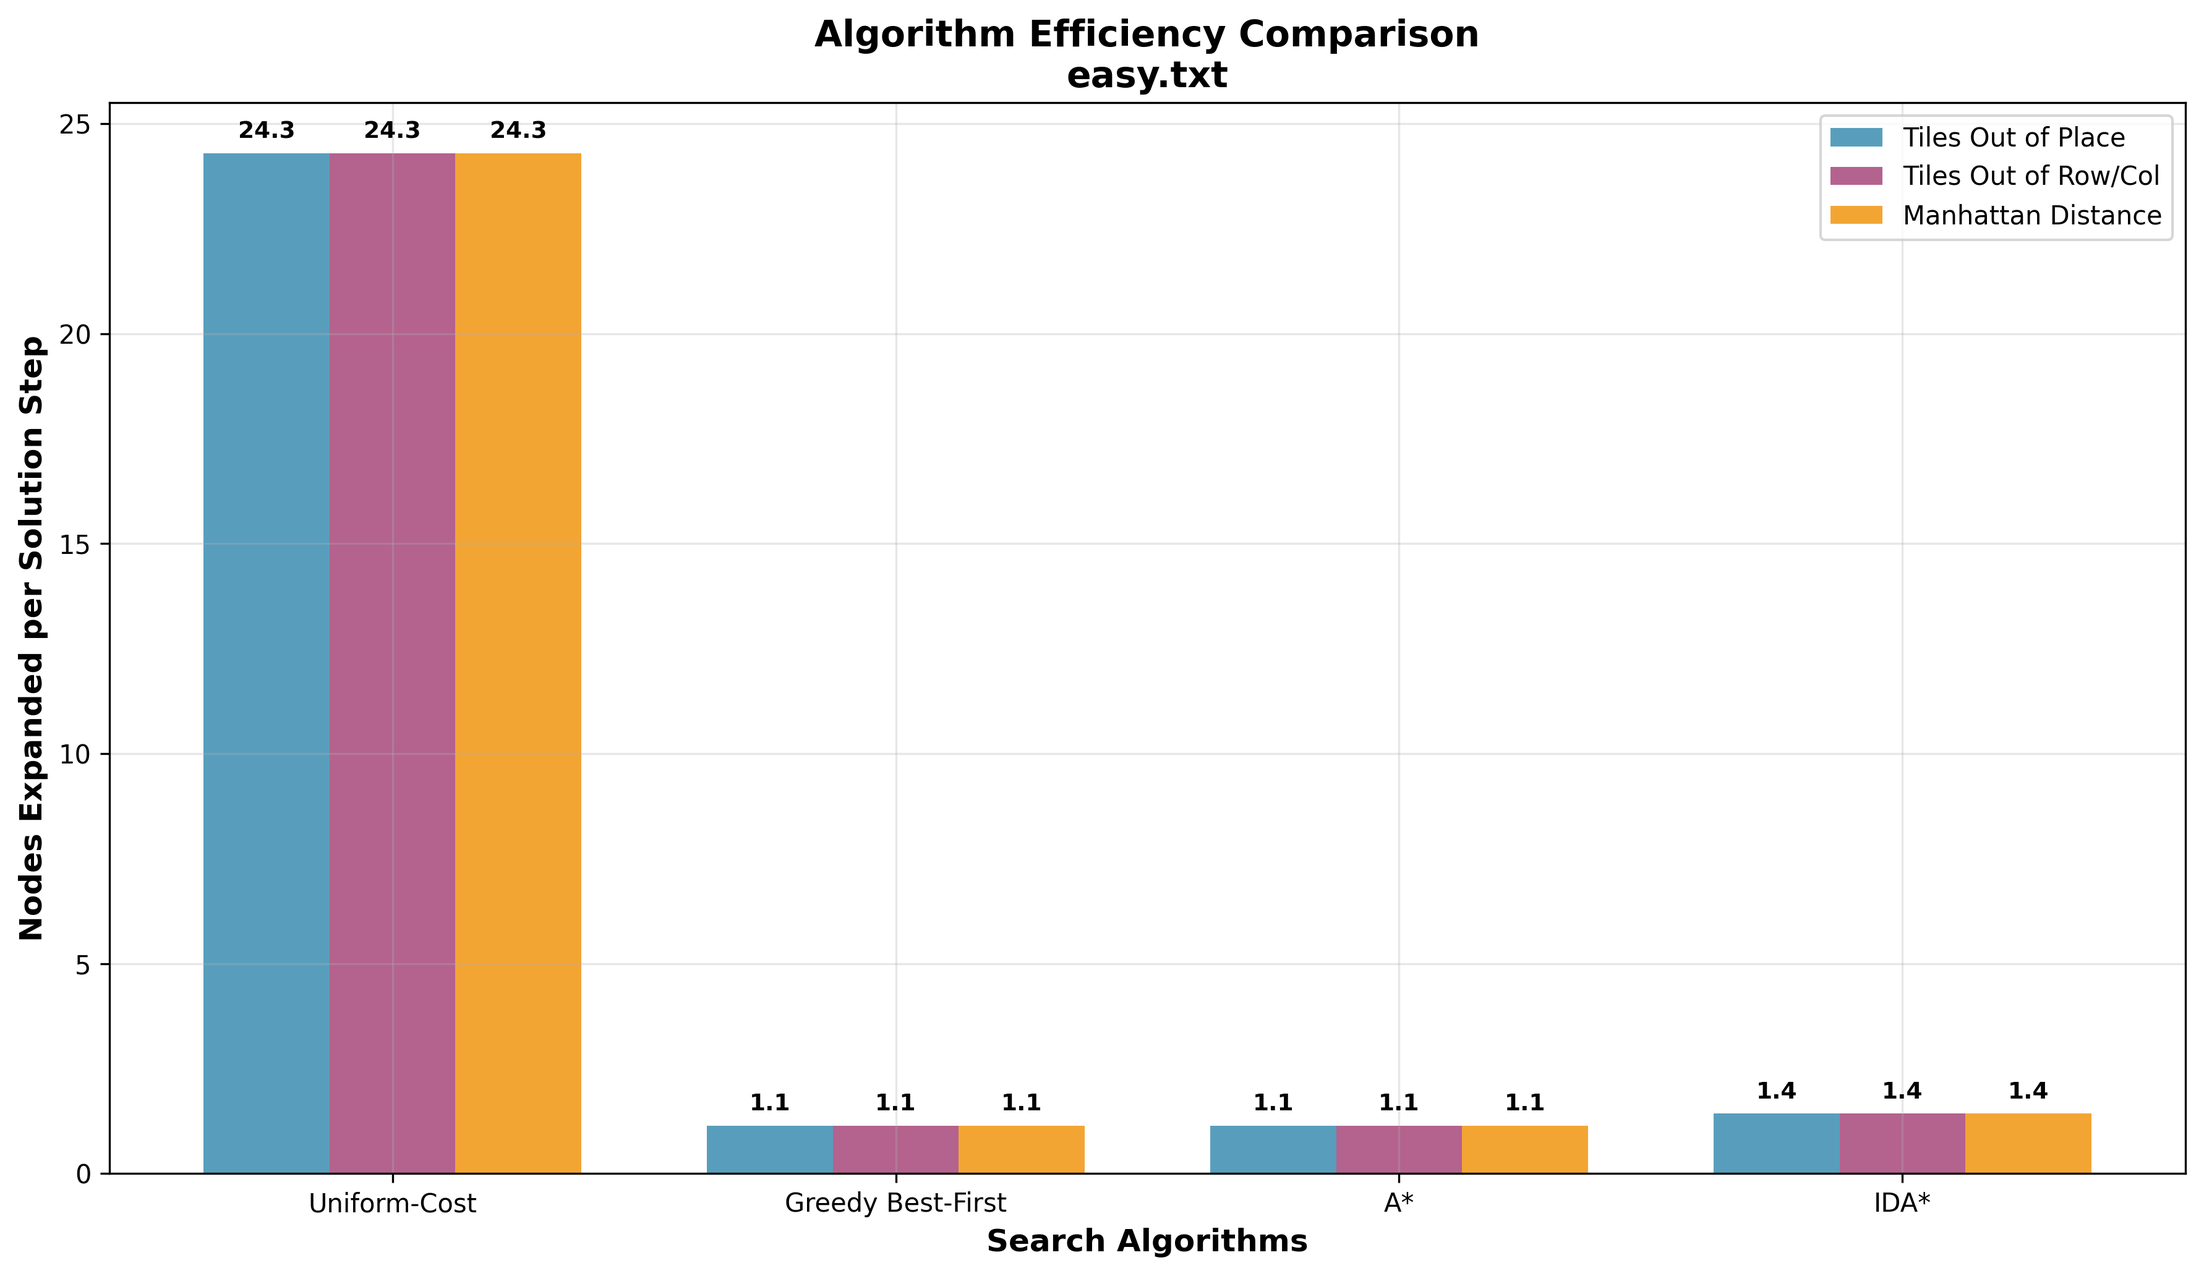
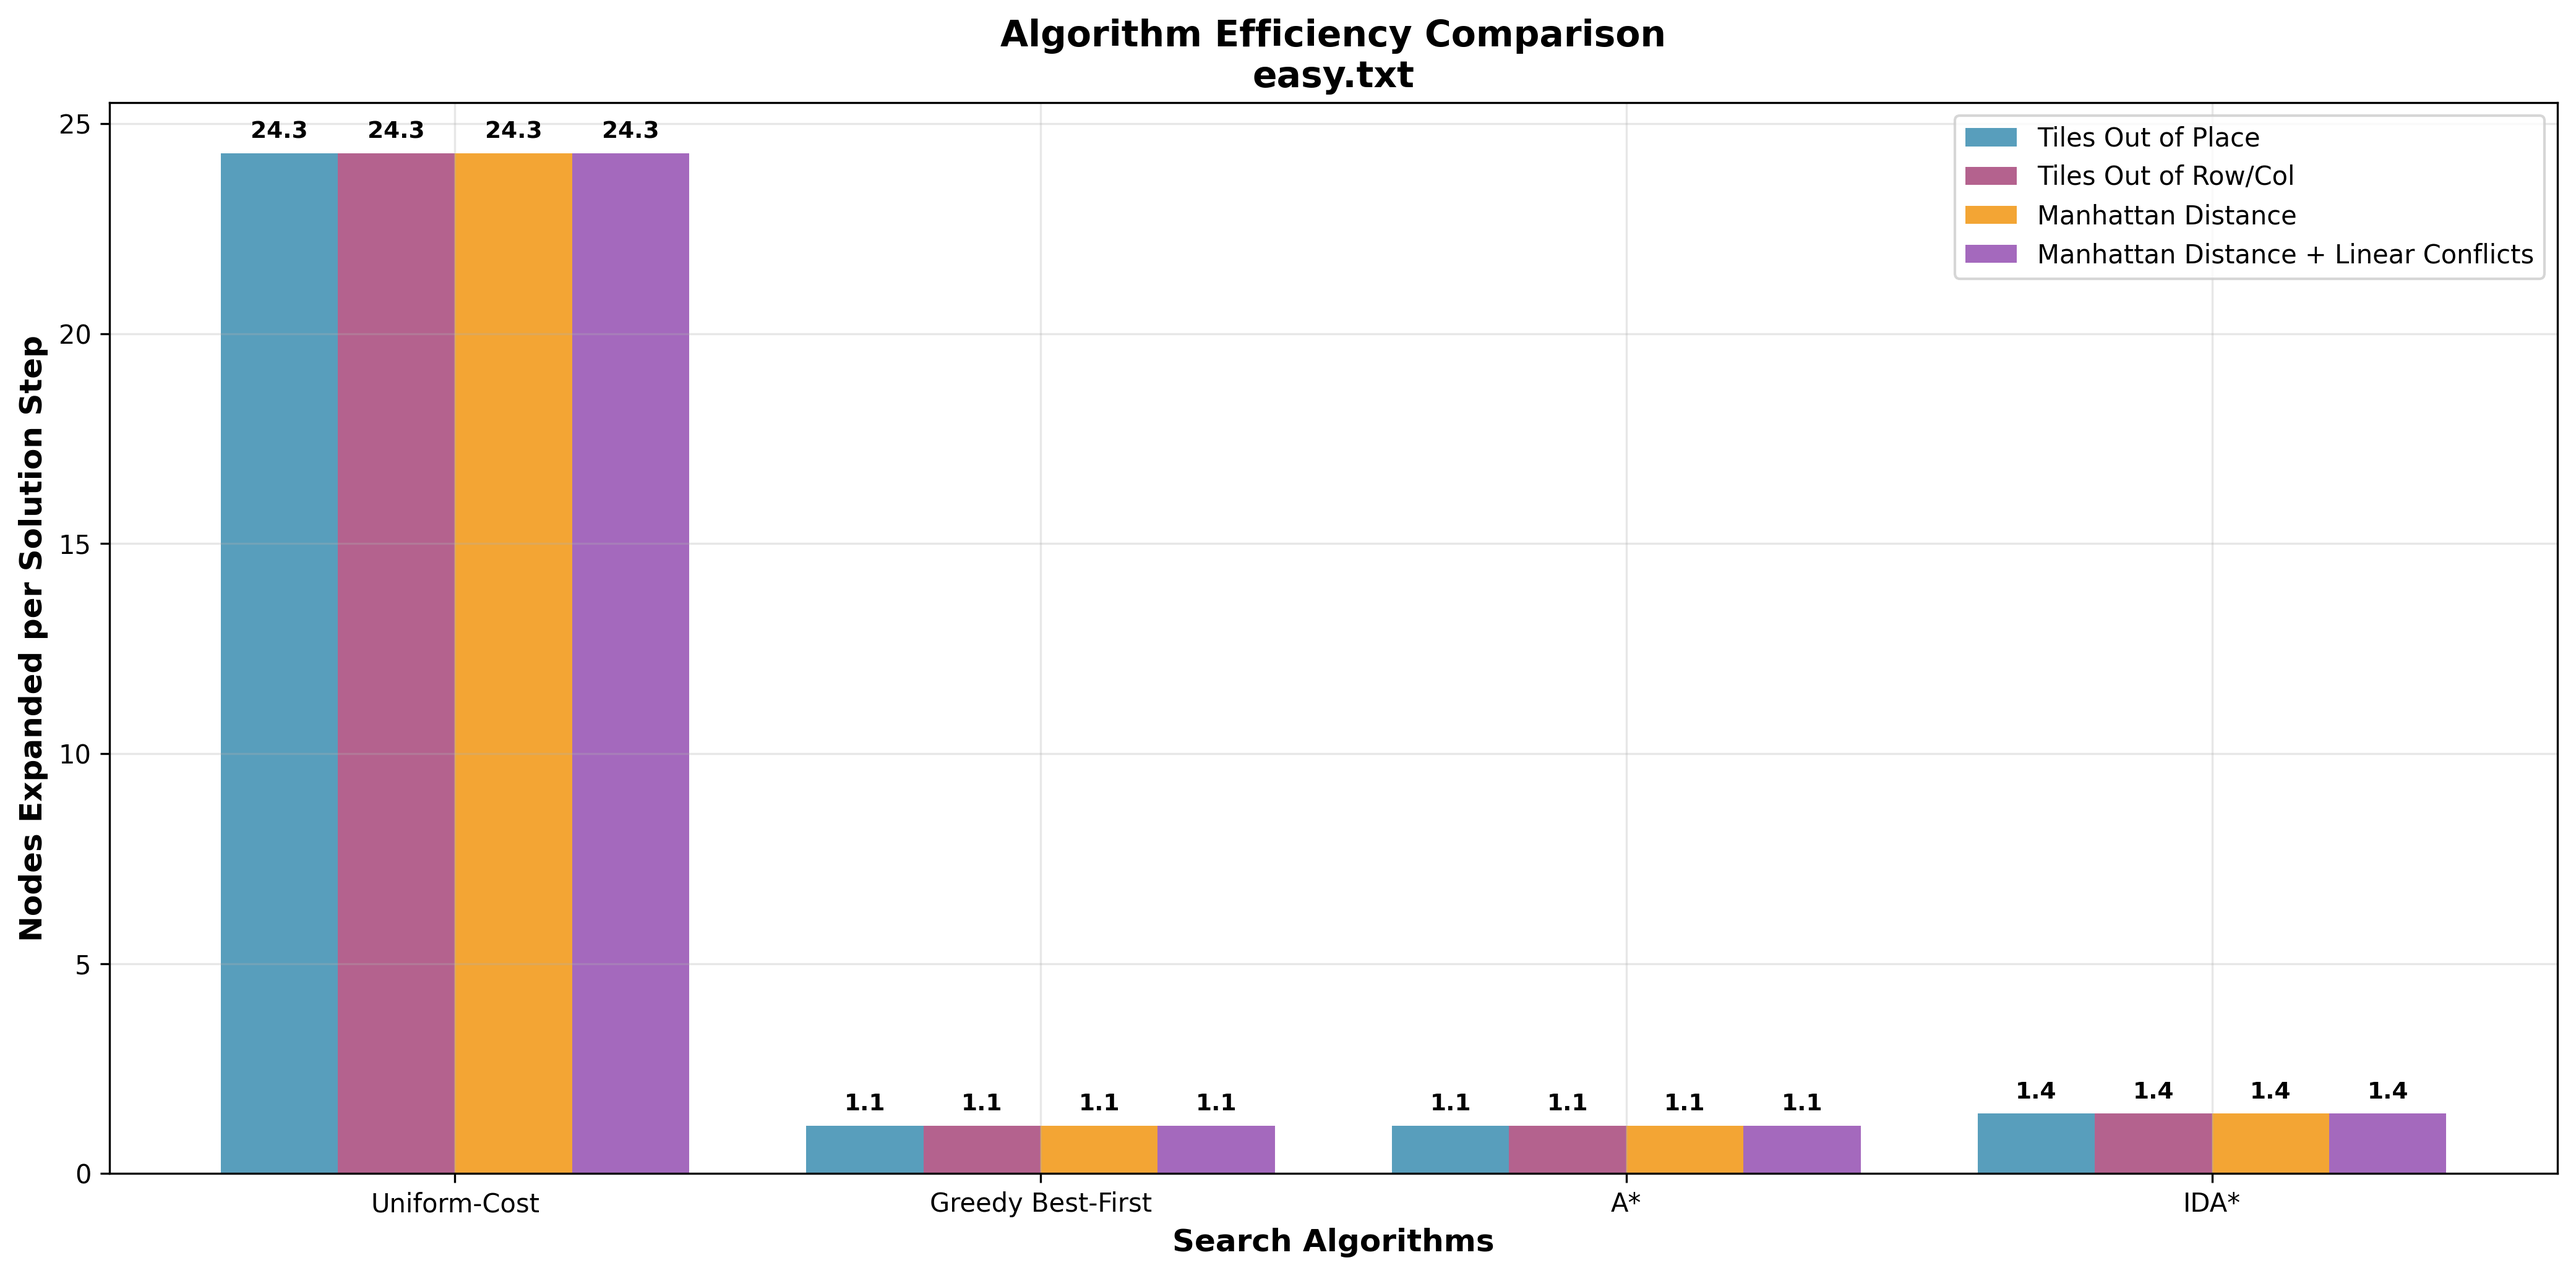
Implement manhattan distance with linear conflicts heuristic

diff --git a/heuristics.py b/heuristics.py
@@ -15,8 +15,10 @@ def heuristic(node, options):
         return tiles_out_of_row_column(node.puzzle)
     elif options.function == 'md':
         return manhattan_distance_to_goal(node.puzzle)
+    elif options.function == 'mdlc':
+        return manhattan_distance_with_linear_conflicts(node.puzzle)
     else:
-        print('Invalid heuristic selected. Options are top, torc, and md')
+        print('Invalid heuristic selected. Options are top, torc, md, and mdlc')
         sys.exit()
 
 
@@ -76,6 +78,96 @@ def manhattan_distance_to_goal(puzzle):
         total_distance += abs(current_row - goal_row) + abs(current_col - goal_col)
 
     return total_distance
+
+
+def manhattan_distance_with_linear_conflicts(puzzle):
+    """
+    Manhattan Distance with Linear Conflicts heuristic.
+    This enhances Manhattan distance by detecting when tiles are in the correct row/column
+    but need to pass each other to reach their goal positions, adding 2 for each conflict.
+    
+    A linear conflict occurs when:
+    - Two tiles are in their correct row/column
+    - Their goal positions are also in that same row/column 
+    - They are in reverse order relative to their goals
+    
+    For each such conflict, we add 2 to the heuristic (minimum moves to resolve).
+    """
+    # Start with basic Manhattan distance
+    md_distance = manhattan_distance_to_goal(puzzle)
+    
+    # Add linear conflicts
+    conflicts = 0
+    
+    # Check for row conflicts
+    for row in range(3):
+        conflicts += count_linear_conflicts_in_line(puzzle, row, is_row=True)
+    
+    # Check for column conflicts  
+    for col in range(3):
+        conflicts += count_linear_conflicts_in_line(puzzle, col, is_row=False)
+    
+    return md_distance + 2 * conflicts
+
+
+def count_linear_conflicts_in_line(puzzle, line_num, is_row=True):
+    """
+    Count linear conflicts in a specific row or column.
+    
+    Args:
+        puzzle: The puzzle state
+        line_num: Row number (0-2) if is_row=True, column number (0-2) if is_row=False
+        is_row: True to check a row, False to check a column
+    
+    Returns:
+        Number of linear conflicts in this line
+    """
+    # Get tiles in this line that belong in this line
+    tiles_in_correct_line = []
+    
+    for pos in range(3):
+        if is_row:
+            idx = line_num * 3 + pos  # Convert row,col to index
+        else:
+            idx = pos * 3 + line_num  # Convert row,col to index
+            
+        tile = puzzle.state[idx]
+        
+        # Skip blank tile
+        if tile == 0:
+            continue
+            
+        # Check if this tile belongs in this row/column
+        tile_goal_row = get_tile_row(tile)
+        tile_goal_col = get_tile_column(tile)
+        
+        if is_row and tile_goal_row == line_num:
+            tiles_in_correct_line.append((tile, pos))
+        elif not is_row and tile_goal_col == line_num:
+            tiles_in_correct_line.append((tile, pos))
+    
+    # Count conflicts among tiles that belong in this line
+    conflicts = 0
+    
+    # For each pair of tiles in the correct line
+    for i in range(len(tiles_in_correct_line)):
+        for j in range(i + 1, len(tiles_in_correct_line)):
+            tile1, pos1 = tiles_in_correct_line[i]
+            tile2, pos2 = tiles_in_correct_line[j]
+            
+            # Get their goal positions in this line
+            if is_row:
+                goal_pos1 = get_tile_column(tile1)
+                goal_pos2 = get_tile_column(tile2)
+            else:
+                goal_pos1 = get_tile_row(tile1)
+                goal_pos2 = get_tile_row(tile2)
+            
+            # Check if they are in conflicting order
+            if (pos1 < pos2 and goal_pos1 > goal_pos2) or (pos1 > pos2 and goal_pos1 < goal_pos2):
+                conflicts += 1
+    
+    return conflicts
 
 
 def get_tile_row(tile):

diff --git a/plotting.py b/plotting.py
@@ -68,7 +68,8 @@ class AlgorithmTester:
     HEURISTICS = {
         'top': 'Tiles Out of Place',
         'torc': 'Tiles Out of Row/Col',
-        'md': 'Manhattan Distance'
+        'md': 'Manhattan Distance',
+        'mdlc': 'Manhattan Distance + Linear Conflicts'
     }
     
     def __init__(self, puzzle_file: str, input_dir: str = DEFAULT_INPUT_DIR):
@@ -250,7 +251,7 @@ class ResultAnalyzer:
         """Create clean efficiency comparison chart"""
         # Organize data by algorithm and heuristic
         alg_order = ['Uniform-Cost', 'Greedy Best-First', 'A*', 'IDA*']
-        heur_order = ['Tiles Out of Place', 'Tiles Out of Row/Col', 'Manhattan Distance']
+        heur_order = ['Tiles Out of Place', 'Tiles Out of Row/Col', 'Manhattan Distance', 'Manhattan Distance + Linear Conflicts']
         
         # Create matrix of efficiency values
         efficiency_matrix = []
@@ -263,16 +264,16 @@ class ResultAnalyzer:
             efficiency_matrix.append(alg_row)
         
         # Create grouped bar chart
-        fig, ax = plt.subplots(figsize=(12, 7))
+        fig, ax = plt.subplots(figsize=(14, 7))
         
         x = np.arange(len(alg_order))
-        width = 0.25
+        width = 0.2  # Narrower bars to fit 4 heuristics
         
-        colors = ['#2E86AB', '#A23B72', '#F18F01']
+        colors = ['#2E86AB', '#A23B72', '#F18F01', '#8E44AD']
         
         for i, heur in enumerate(heur_order):
             values = [row[i] for row in efficiency_matrix]
-            bars = ax.bar(x + i * width - width, values, width, 
+            bars = ax.bar(x + i * width - 1.5*width, values, width, 
                          label=heur, color=colors[i], alpha=0.8)
             
             # Add value labels on bars
@@ -309,11 +310,11 @@ class ResultAnalyzer:
         
         # Organize data by algorithm and heuristic
         alg_order = ['IDA*', 'A*', 'Greedy Best-First', 'Uniform-Cost']  # Best to worst memory efficiency
-        heur_order = ['Manhattan Distance', 'Tiles Out of Row/Col', 'Tiles Out of Place']
-        heur_short = ['MD', 'TORC', 'TOP']
+        heur_order = ['Manhattan Distance + Linear Conflicts', 'Manhattan Distance', 'Tiles Out of Row/Col', 'Tiles Out of Place']
+        heur_short = ['MDLC', 'MD', 'TORC', 'TOP']
         
         # Colors for each heuristic
-        heur_colors = ['#2E86AB', '#A23B72', '#F18F01']
+        heur_colors = ['#8E44AD', '#2E86AB', '#A23B72', '#F18F01']
         
         # Left plot: Memory per step (horizontal bars)
         y_positions = []
@@ -323,7 +324,7 @@ class ResultAnalyzer:
             for heur_idx, heur in enumerate(heur_order):
                 result = next((r for r in self.solved_results if r.algorithm == alg and r.heuristic == heur), None)
                 if result:
-                    y_pos = alg_idx * 4 + heur_idx
+                    y_pos = alg_idx * 5 + heur_idx
                     y_positions.append(y_pos)
                     y_labels.append(f"{alg}\n{heur_short[heur_idx]}")
                     
@@ -344,7 +345,7 @@ class ResultAnalyzer:
         
         # Add algorithm separators
         for i in range(1, len(alg_order)):
-            ax1.axhline(y=i*4-0.5, color='gray', linestyle='--', alpha=0.5)
+            ax1.axhline(y=i*5-0.5, color='gray', linestyle='--', alpha=0.5)
         
         # Right plot: Total memory usage (stacked bars)
         alg_memory_data = {}

diff --git a/main.py b/main.py
@@ -24,7 +24,7 @@ def get_options(args=sys.argv[1:]):
                        help="Search type: Options: ids (IDA* - Iterative Deepening A*), bids (Basic Iterative Deepening Search), or bfs (best first search)", 
                        default=DEFAULT_SEARCH_TYPE)
     parser.add_argument("-f", '--function', 
-                       help="Heuristic function used: Options: top (tiles out of place), torc (tiles out of row/column), or md (manhattan distance)",
+                       help="Heuristic function used: Options: top (tiles out of place), torc (tiles out of row/column), md (manhattan distance), or mdlc (manhattan distance + linear conflicts)",
                        default=DEFAULT_HEURISTIC)
     parser.add_argument("-t", '--type', 
                        help="Evaluation function type: Options: g (greedy), u (uniform cost), or a (a-star)", 

diff --git a/README.md b/README.md
@@ -23,11 +23,12 @@ Where `0` represents the blank (empty) space.
   - Greedy Best-First Search
   - A\* Search
 
-- **Three Heuristic Functions:**
+- **Four Heuristic Functions:**
 
   - Tiles Out of Place: Counts tiles not in their goal position
   - Tiles Out of Row/Column: Counts tiles in wrong row plus tiles in wrong column
   - Manhattan Distance: Sum of distances each tile must travel to reach its goal position
+  - Manhattan Distance + Linear Conflicts: Enhanced Manhattan Distance with conflict detection
 
 - **Performance Analysis:**
 
@@ -56,6 +57,9 @@ python main.py medium.txt -s bfs -f md -t a
 # Use IDA* with Manhattan Distance heuristic
 python main.py hard.txt --search ids --function md --type a
 
+# Use IDA* with the most advanced heuristic (Manhattan Distance + Linear Conflicts)
+python main.py hard.txt --search ids --function mdlc --type a
+
 # Compare IDA* vs Basic Iterative Deepening on the same puzzle
 python main.py medium.txt --search ids --function md --type a    # IDA*
 python main.py medium.txt --search bids --function top --type u  # Basic IDS
@@ -65,7 +69,7 @@ python main.py medium.txt --search bids --function top --type u  # Basic IDS
 
 - `filename`: Puzzle file to solve (required)
 - `-s, --search`: Search type - `ids` (IDA* - Iterative Deepening A*), `bids` (Basic Iterative Deepening Search), or `bfs` (best-first)
-- `-f, --function`: Heuristic function - `top` (tiles out of place), `torc` (tiles out of row/column), or `md` (manhattan distance)
+- `-f, --function`: Heuristic function - `top` (tiles out of place), `torc` (tiles out of row/column), `md` (manhattan distance), or `mdlc` (manhattan distance + linear conflicts)
 - `-t, --type`: Evaluation function - `u` (uniform cost), `g` (greedy), or `a` (A\*)
 - `--input-dir`: Input directory for puzzle files (default: `puzzles`)
 
@@ -153,7 +157,14 @@ This generates:
 3. **Manhattan Distance (md)**
    - Sum of distances each tile must travel to reach goal
    - Admissible
-   - Most informed of the three heuristics and often leads to the best performance
+   - Well-informed heuristic that often leads to good performance
+
+4. **Manhattan Distance + Linear Conflicts (mdlc)**
+   - Manhattan Distance enhanced with linear conflict detection
+   - When tiles are in correct row/column but need to pass each other, adds 2 for each conflict
+   - Admissible and more informed than basic Manhattan Distance
+   - Detects situations where tiles must move out of each other's way
+   - Often provides the best performance by accounting for tile interaction patterns
 
 ## Puzzle File Format
 
